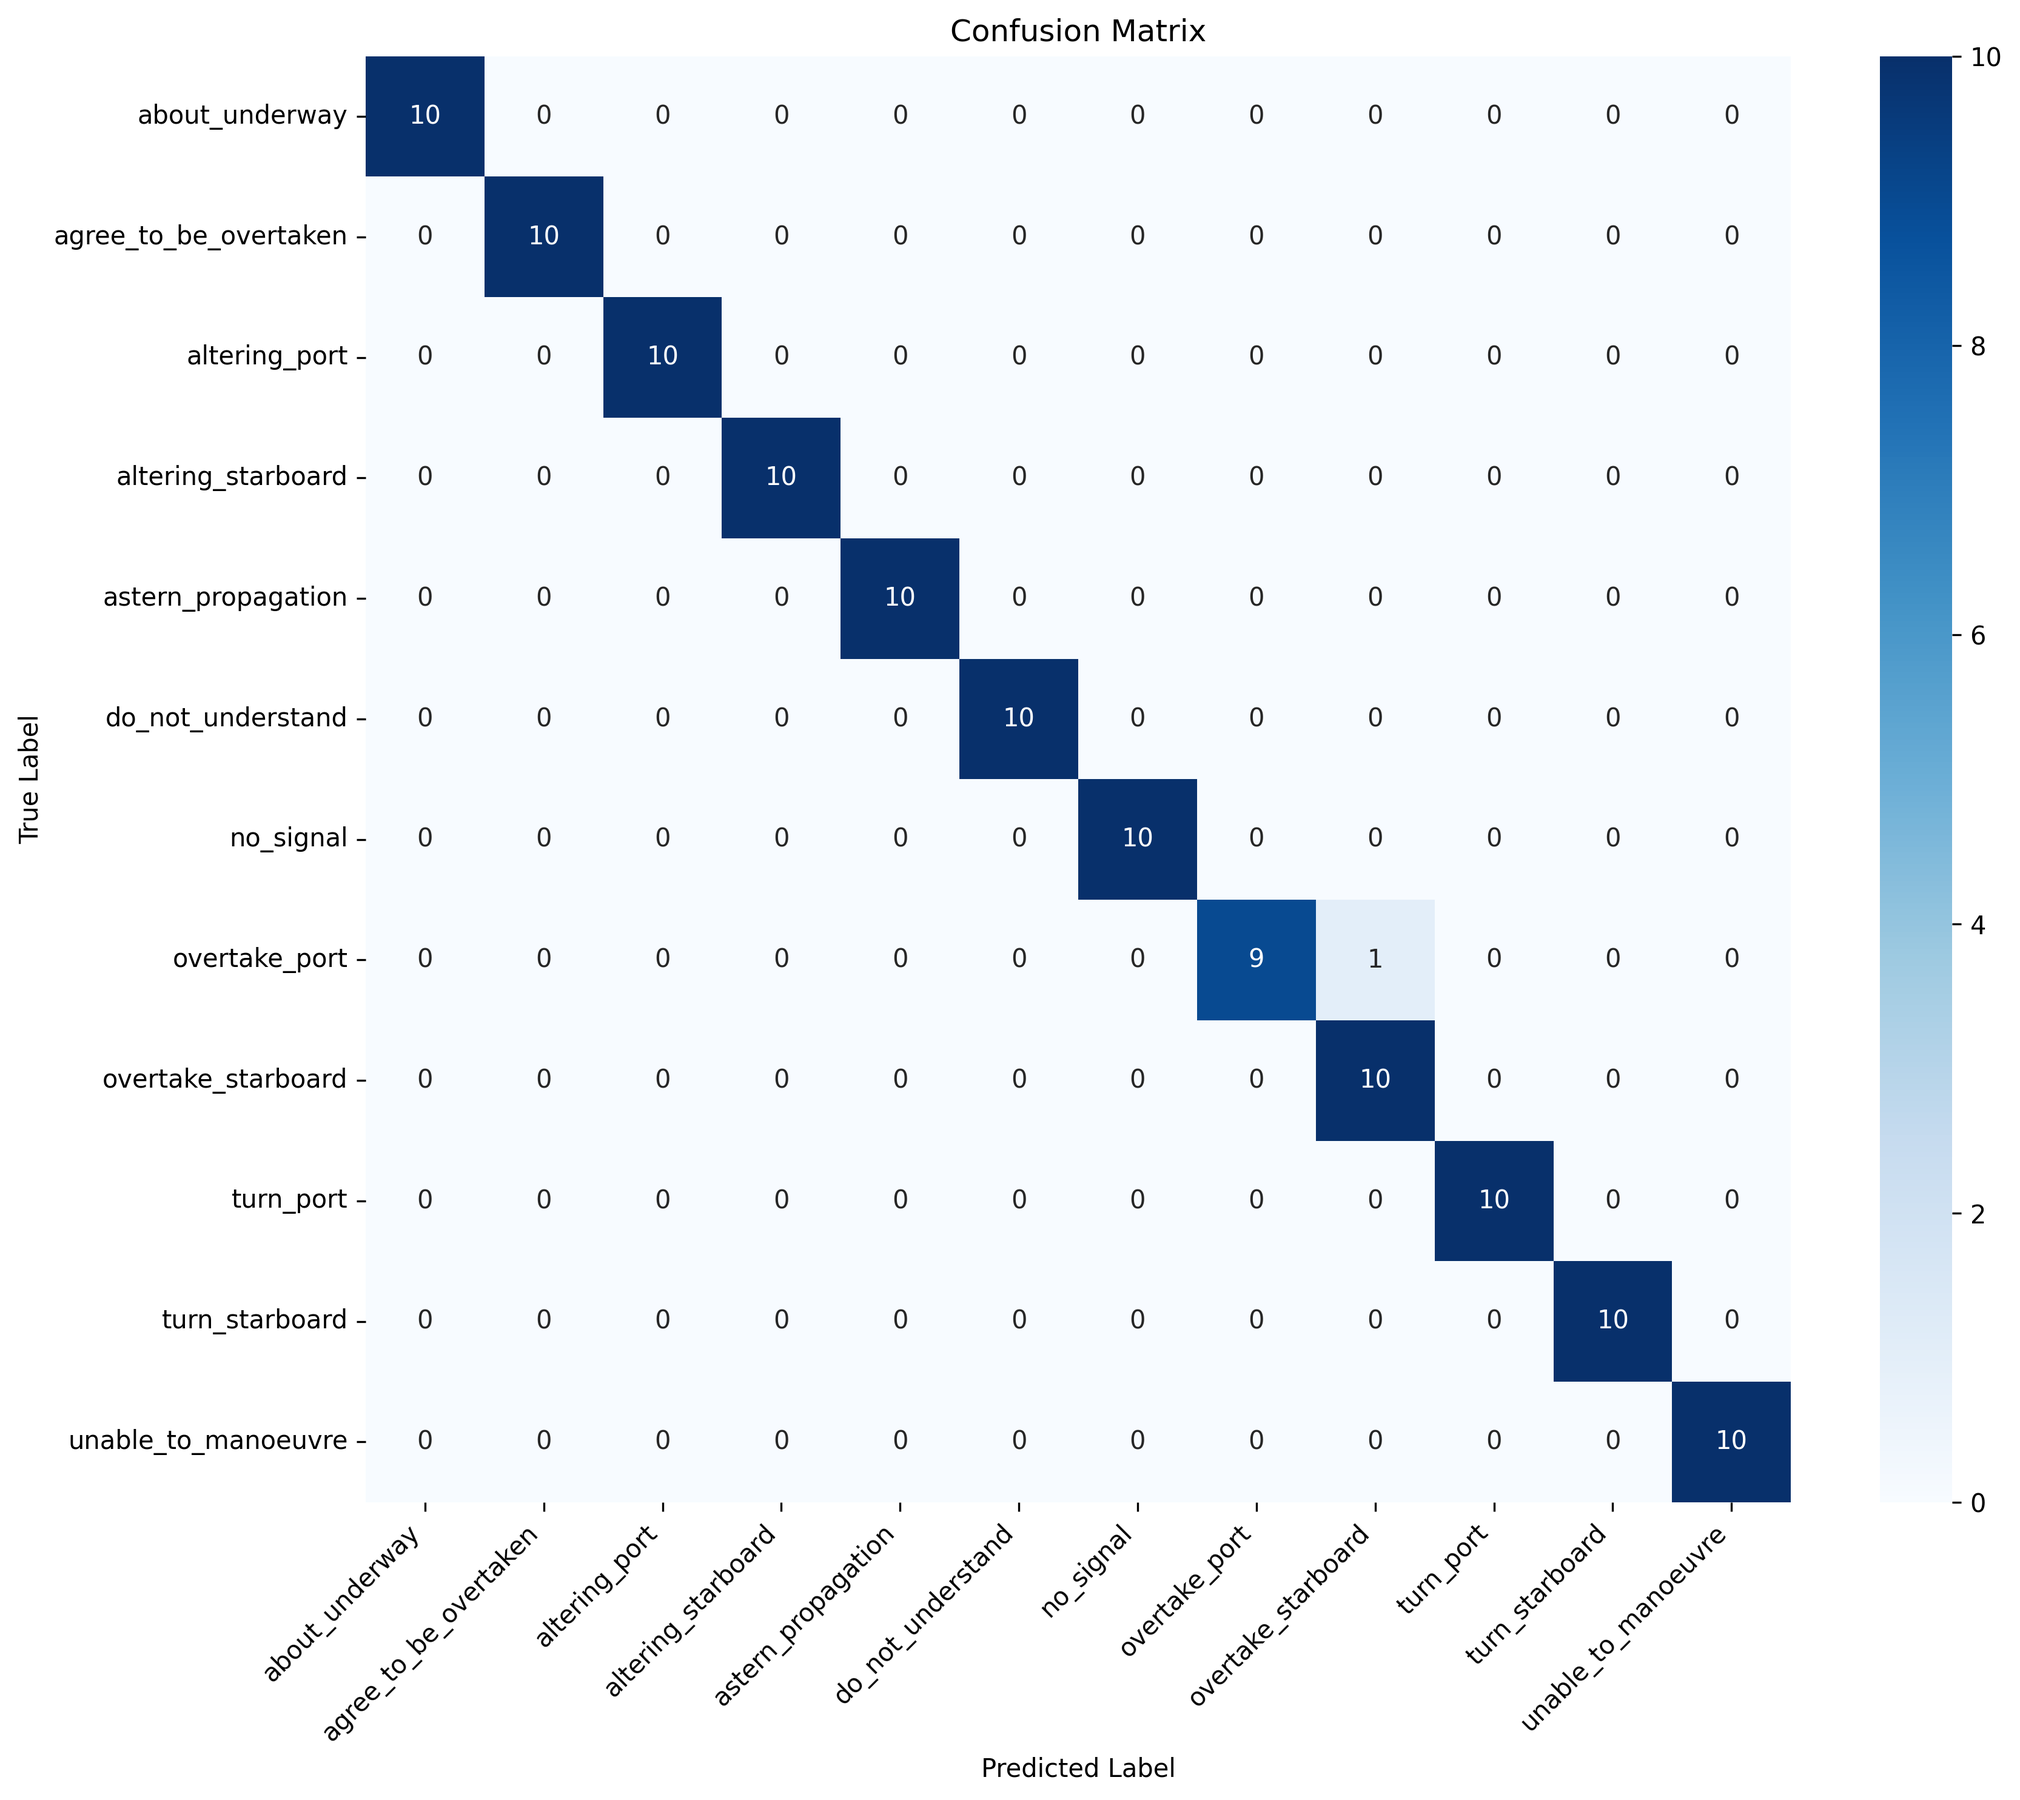
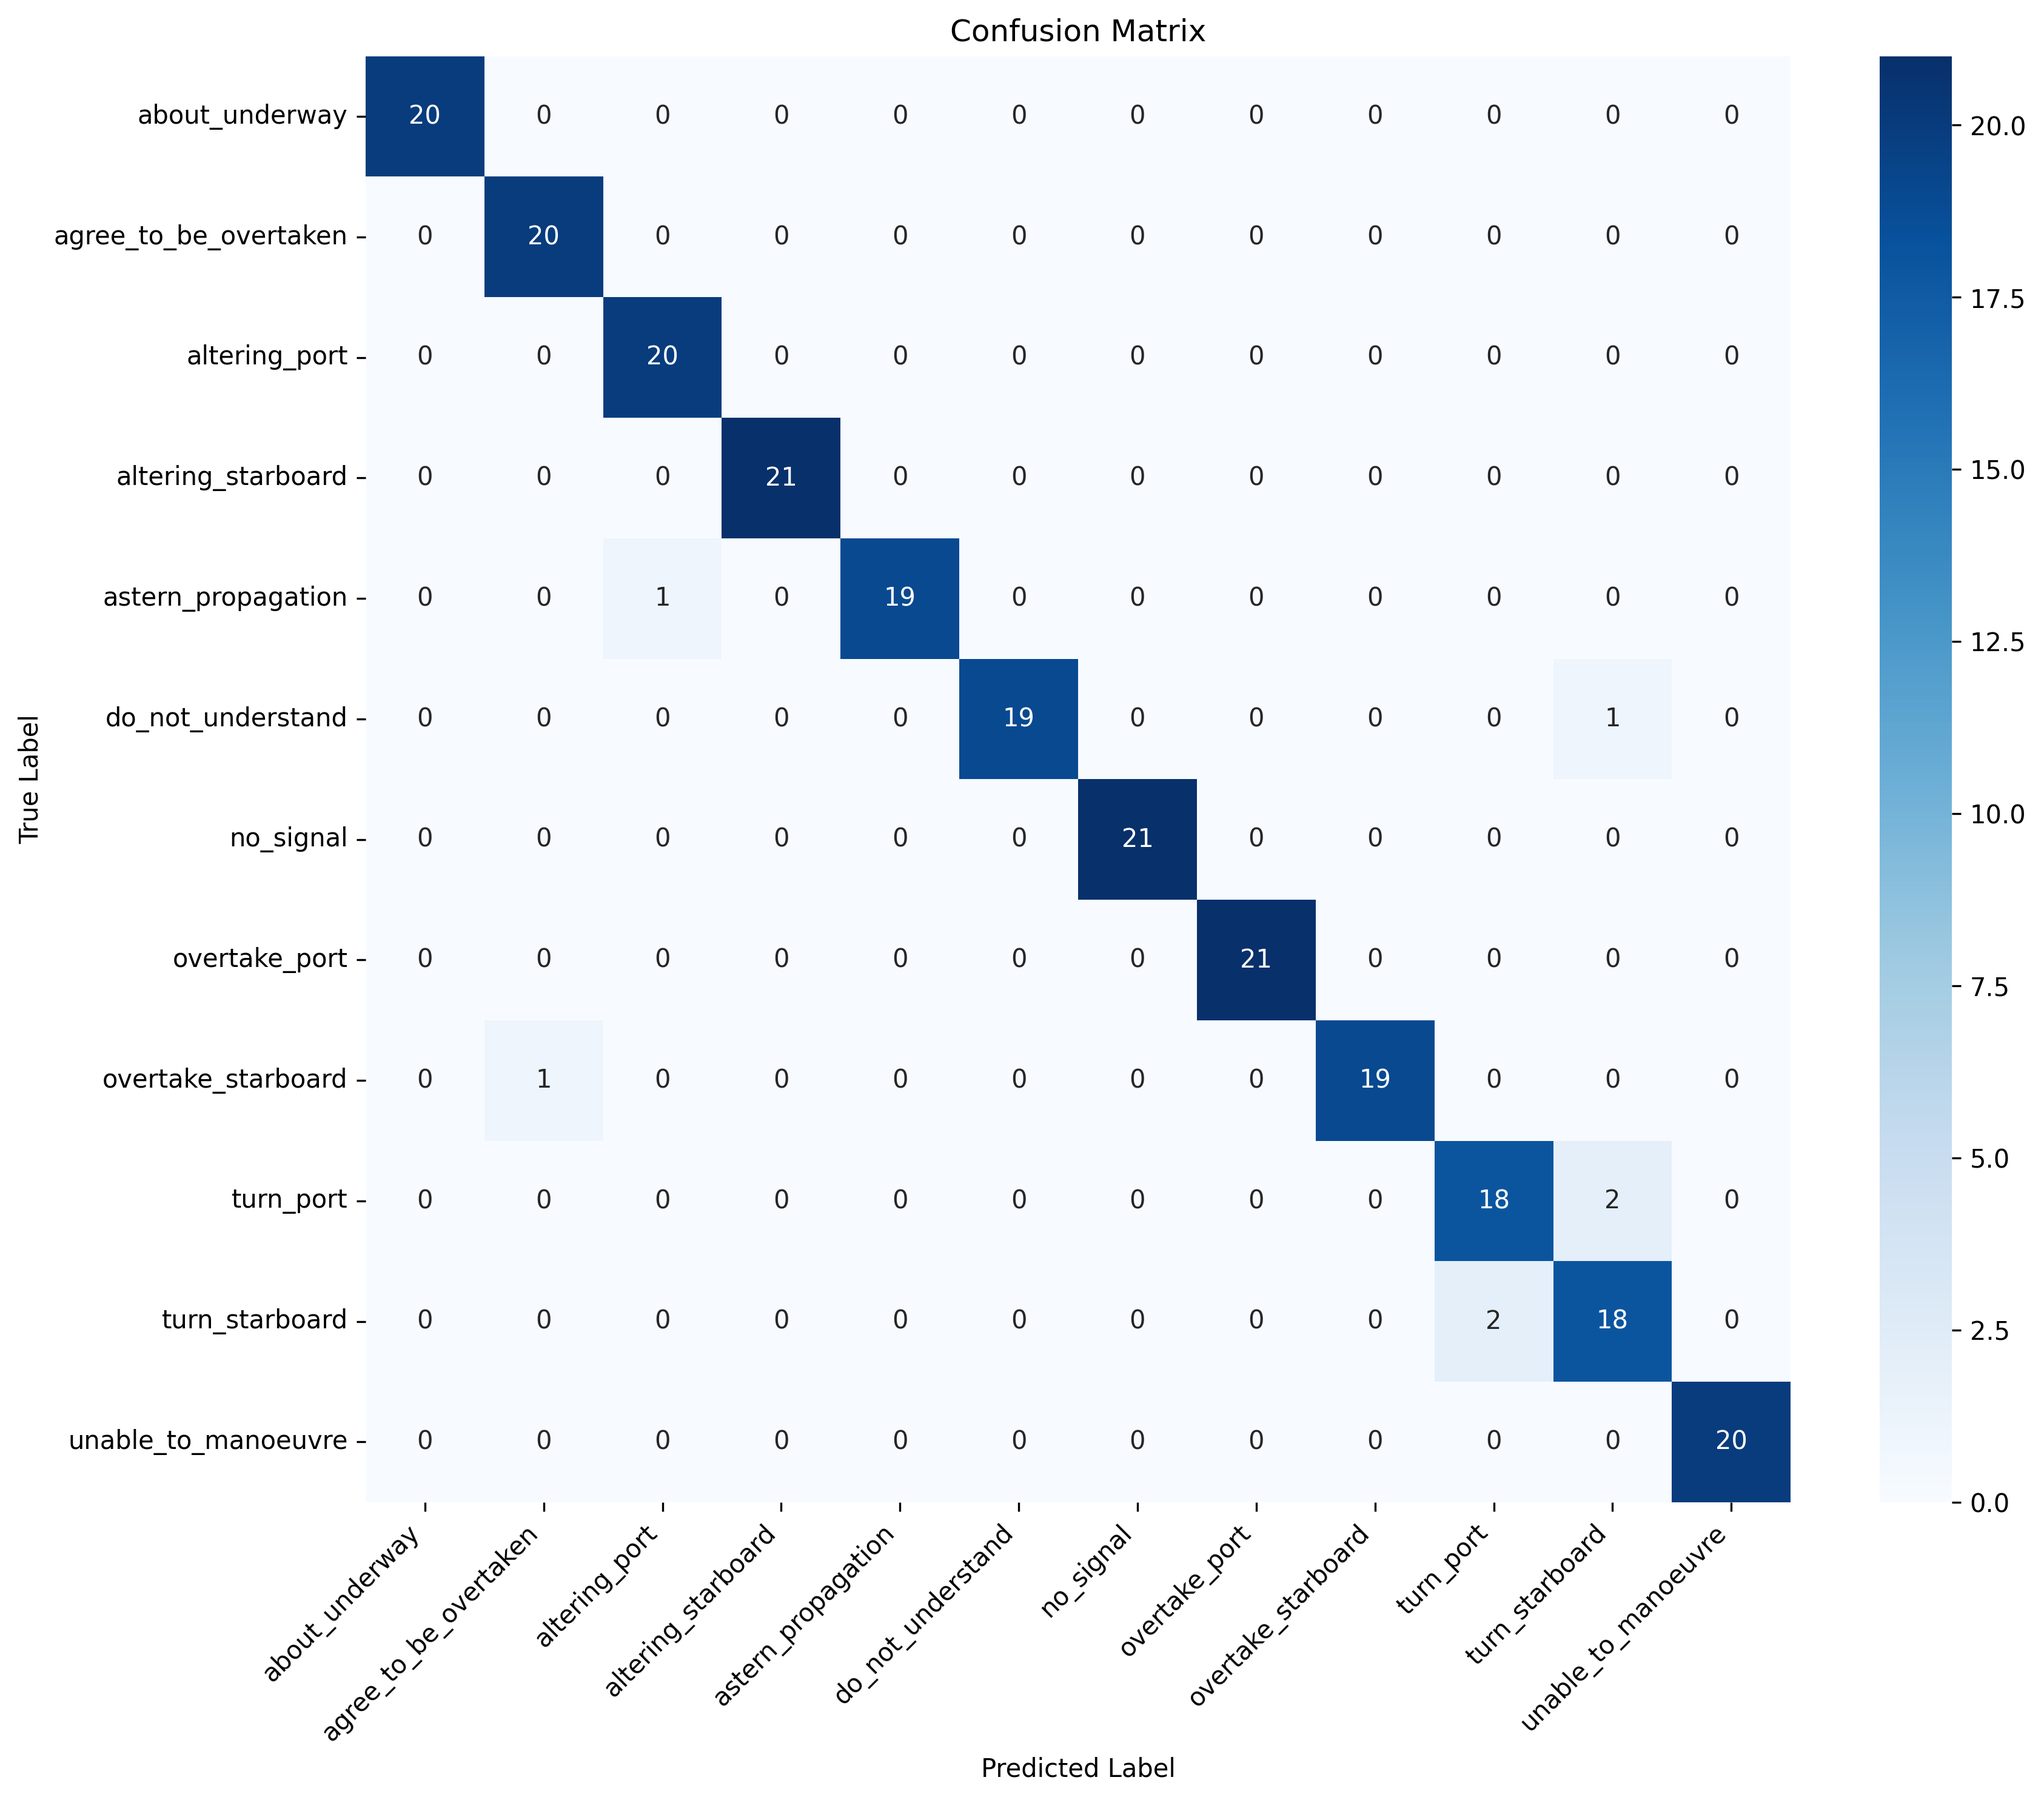
works in docker

diff --git a/test_yamnet_classifier.py b/test_yamnet_classifier.py
@@ -3,6 +3,8 @@ Pytest tests for YAMNet COLREG classifier.
 
 Tests that each sample in the dataset is correctly predicted -
 the top predicted class should match the actual label.
+
+Though this test is a bit silly as it runs against data used for training. :-) Anyways manual testing can be done with data in samples folder.
 """
 
 import pytest
@@ -49,11 +51,9 @@ def test_predict_sample(classifier, audio_file, expected_label):
     """Test that the predicted class matches the expected label for each sample."""
     predicted_class, confidence, probabilities = classifier.predict(audio_file)
 
-    assert predicted_class == expected_label, (
-        f"Prediction failed for {Path(audio_file).name}\n"
-        f"Expected: {expected_label}\n"
-        f"Got: {predicted_class} (confidence: {confidence:.2%})"
-    )
+    assert (
+        predicted_class == expected_label
+    ), f"Prediction failed for {Path(audio_file).name} Expected: {expected_label} Got: {predicted_class} (confidence: {confidence:.2%})"
 
 
 if __name__ == "__main__":

diff --git a/yamnet_classifier.py b/yamnet_classifier.py
@@ -514,7 +514,8 @@ def main():
     X, y, class_names = classifier.load_dataset(use_temporal=True)
 
     # Train classifier
-    history = classifier.train(X, y, test_size=0.2, epochs=100, batch_size=16)
+    ## TODO set epochs to 100
+    history = classifier.train(X, y, test_size=0.2, epochs=5, batch_size=16)
 
     # Save model
     classifier.save_model("output/colreg_classifier")

diff --git a/make_training_data.py b/make_training_data.py
@@ -42,7 +42,7 @@ silence_between_ms = 1000
 tiny_break_ms = 1500
 volume_variation_db = 2
 background_amplification_db = 2
-num_samples_per_class = 101
+num_samples_per_class = 5  # TODO change to 101
 target_duration_range_ms = (25000, 30000)
 horn_start_delay_range_ms = (1000, 10000)
 

diff --git a/README.md b/README.md
@@ -39,12 +39,19 @@ Classify maritime horn signals in audio files:
 # Single file prediction
 uv run predict_signal.py path/to/audio.mp3
 
+# Or against all files in samples
+uv run main.py
+
 # Predict samples folder with docker
 docker compose up classifier
 
 ```
 
-### 4. Test the Implementation
+### 4. Run everything in sequence
+
+`./run_pipeline.sh`
+
+### 5. Test the Implementation
 
 Run the test suite:
 
